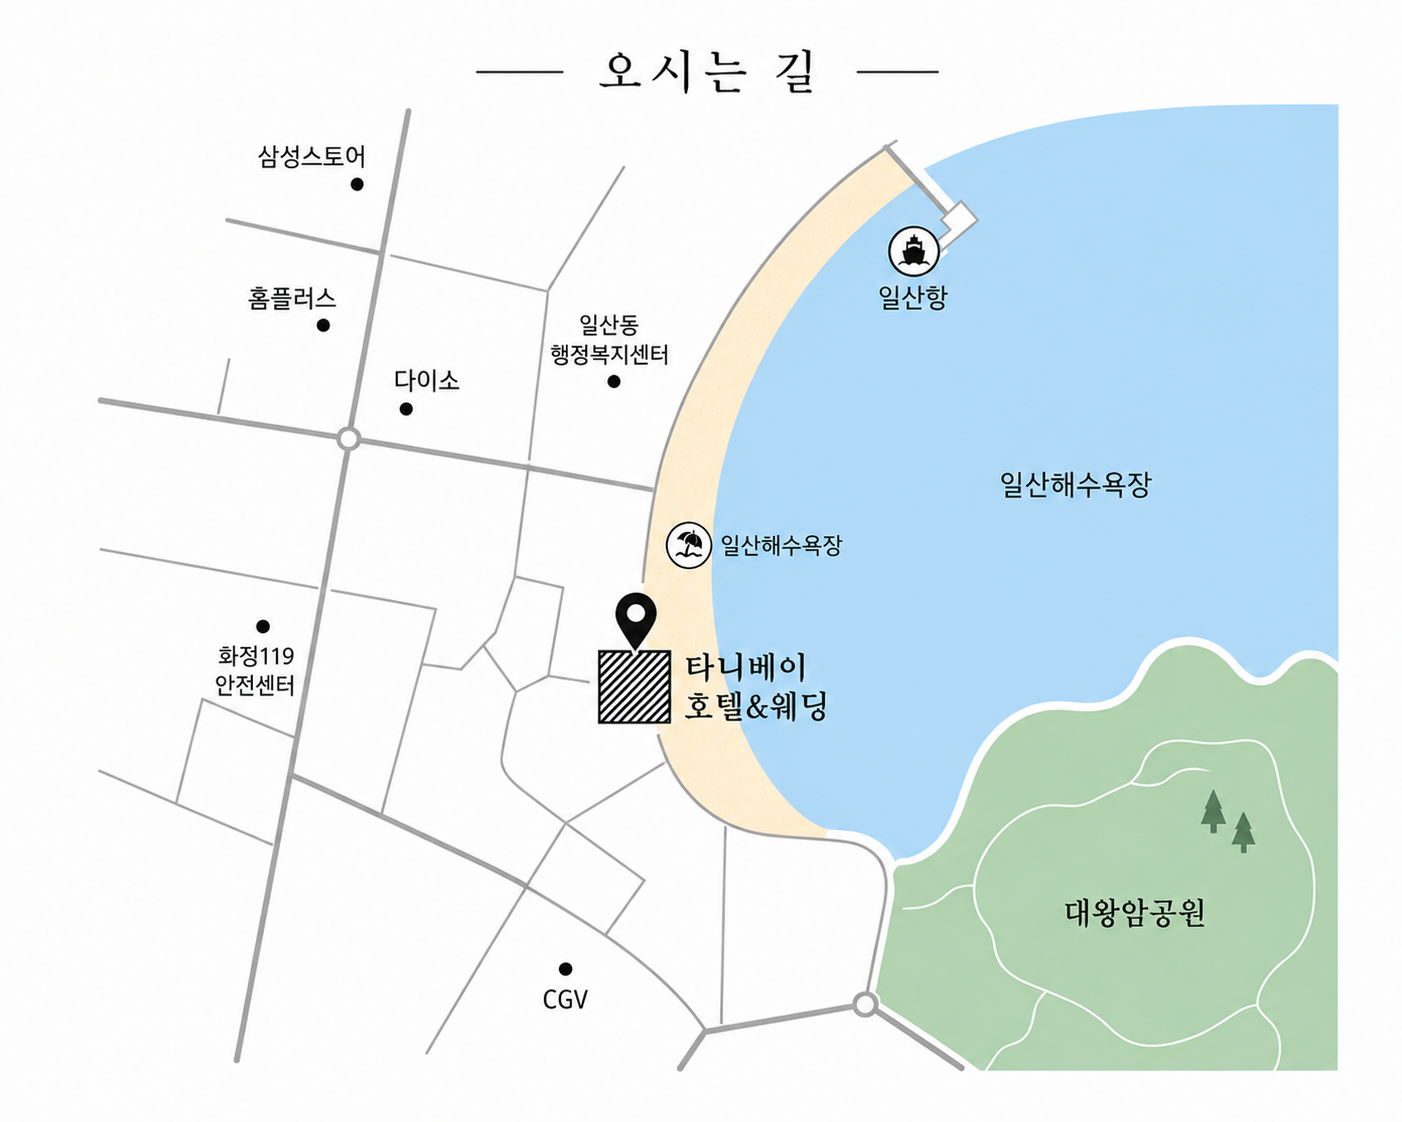
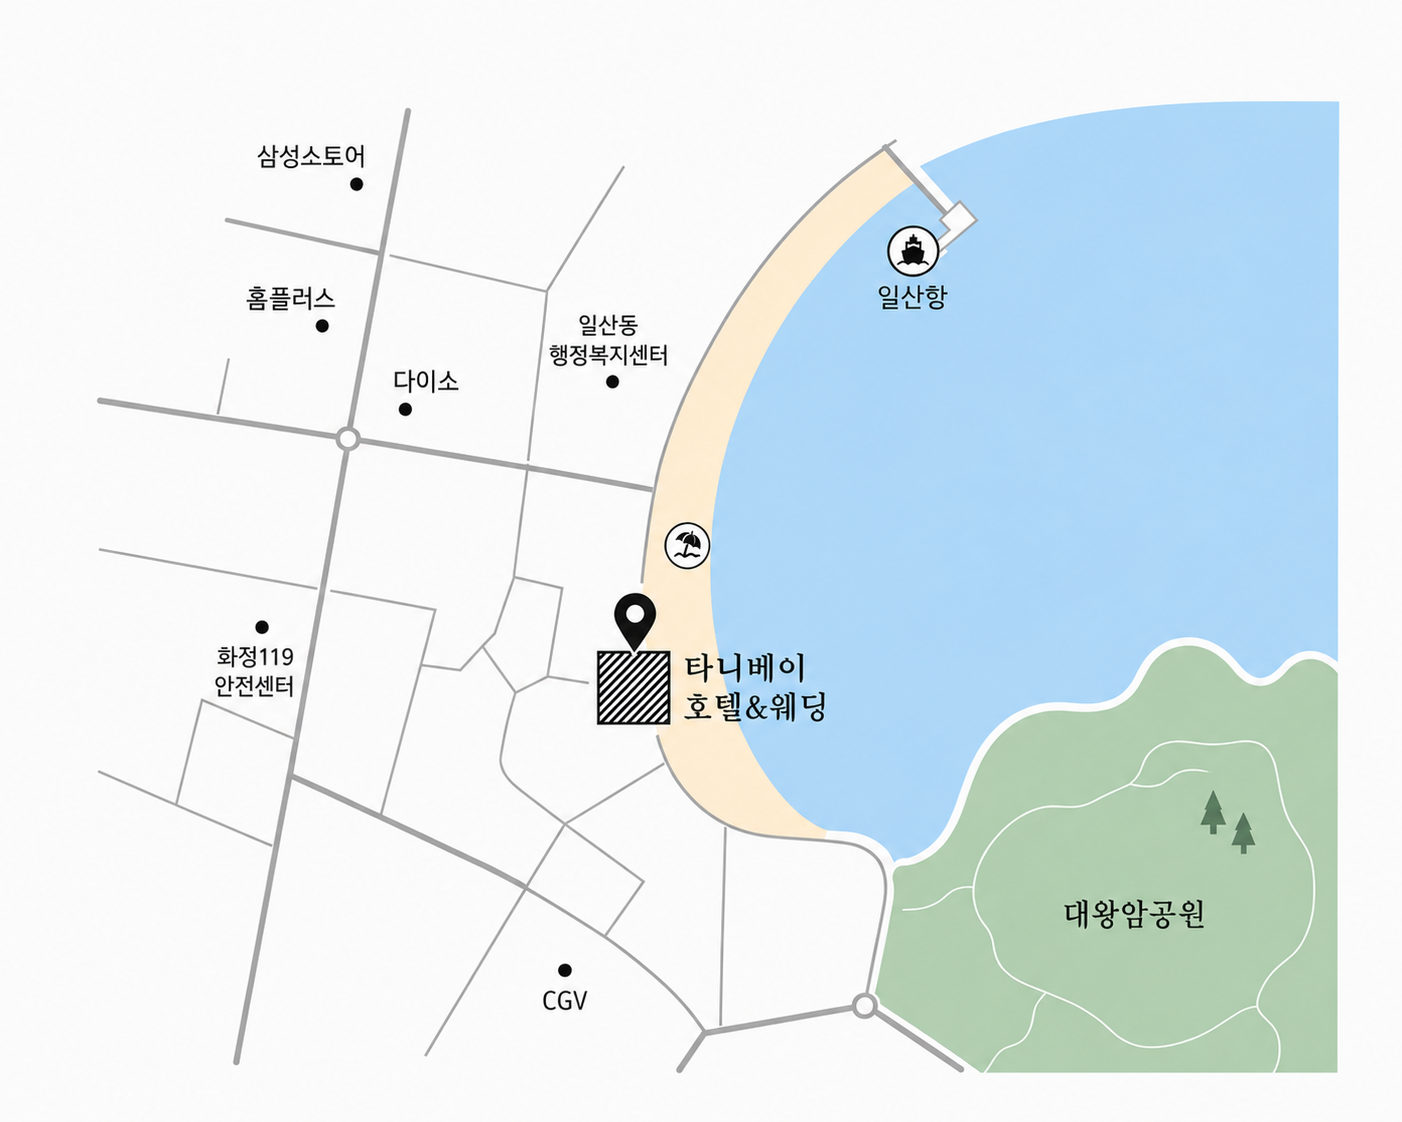
Update wedding details and map asset

diff --git a/src/wedding.js b/src/wedding.js
@@ -17,9 +17,9 @@ export const wedding = {
   },
   accounts: {
     groom: [
-      { relation: '신랑', name: '이경우', bank: '우리', number: '002045888647' },
-      { relation: '신랑 아버지', name: '이동열', bank: '우리', number: '002045888647' },
-      { relation: '신랑 어머니', name: '박영애', bank: '우리', number: '002045888647' },
+      { relation: '신랑', name: '이경우', bank: '우리', number: '1002045888647' },
+      { relation: '신랑 아버지', name: '이동열', bank: '우리', number: '1002045888647' },
+      { relation: '신랑 어머니', name: '박영애', bank: '우리', number: '1002045888647' },
     ],
     bride: [
       { relation: '신부', name: '전선진', bank: '토스', number: '100003801771' },
@@ -36,8 +36,10 @@ export const wedding = {
   kakaoMapUrl: 'https://map.kakao.com/link/search/울산%20동구%20해수욕장5길%2043',
   naverMapUrl: 'https://map.naver.com/p/search/울산%20동구%20해수욕장5길%2043',
   message: [
-    '서로의 가장 좋은 친구로 지내온 두 사람이',
-    '이제 같은 곳을 바라보며 걸어가려 합니다.',
-    '저희의 새로운 시작을 따뜻한 마음으로 축복해 주세요.',
+    '깊어가는 가을',
+    '서로의 내일이 되기로 한 두 사람이',
+    '새로운 출발을 시작합니다.',
+    '소중한 걸음으로 함께하시어',
+    '따뜻한 축복을 전해 주시면 감사하겠습니다.',
   ],
 };
